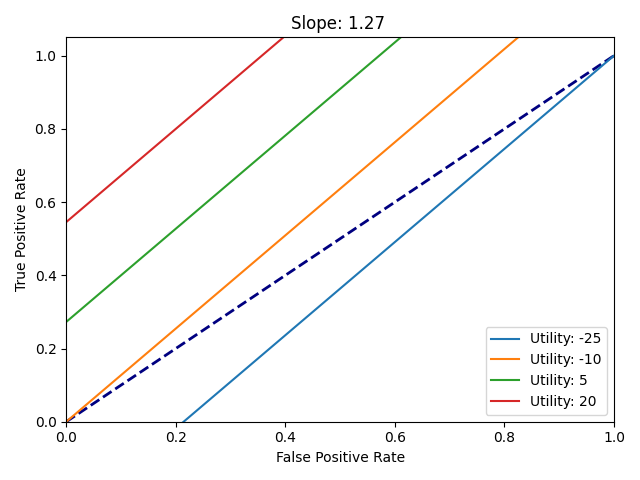
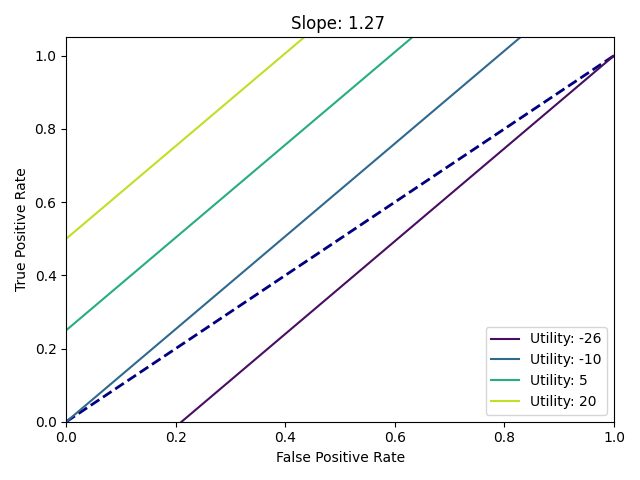
IDK

diff --git a/generate_plots.py b/generate_plots.py
@@ -22,50 +22,6 @@ def make_blank_plot():
     plotter.fig.savefig('./blank.png')
 
 
-def make_plot_1():
-    utility_matrix = UtilityMatrix(110, -162, -10, -10, 0.5)
-    plotter = ROCPlotter()
-    plotter.plot_iso_utility(utility_matrix, utility_matrix.utility_at_accept,
-                             color=my_mapper(utility_matrix.utility_at_accept)). \
-        plot_iso_utility(utility_matrix, utility_matrix.utility_at_reject,
-                         color=my_mapper(utility_matrix.utility_at_reject)). \
-        plot_iso_utility(utility_matrix, 5, color=my_mapper(10)). \
-        plot_iso_utility(utility_matrix, 20, color=my_mapper(20))
-    plotter.ax.set_title(f'Slope: {utility_matrix.slope:0.2f} ')
-    plotter.show()
-    # ax.title = f'Slope: {utility_matrix.slope}'
-    plotter.fig.savefig('./iso_utility_1.png')
-    plotter.fig.show()
-
-
-def make_plot_2():
-    utility_matrix = UtilityMatrix(110, -162, -10, -10, 0.6)
-    plotter = ROCPlotter()
-    plotter.plot_iso_utility(utility_matrix, utility_matrix.utility_at_accept,
-                             color=my_mapper(utility_matrix.utility_at_accept)). \
-        plot_iso_utility(utility_matrix, utility_matrix.utility_at_reject,
-                         color=my_mapper(utility_matrix.utility_at_reject)). \
-        plot_iso_utility(utility_matrix, 10, color=my_mapper(10)). \
-        plot_iso_utility(utility_matrix, 20, color=my_mapper(20))
-    plotter.ax.set_title(f'Slope: {utility_matrix.slope:0.2f} ')
-    plotter.show()
-    # ax.title = f'Slope: {utility_matrix.slope}'
-    plotter.fig.savefig('./iso_utility_2.png')
-    plotter.fig.show()
-
-
-def make_single_lines_1():
-    utility_matrix = UtilityMatrix(110, -162, -10, -10, 0.5)
-    plotter = ROCPlotter()
-    plotter. \
-        plot_iso_utility(utility_matrix, utility_matrix.utility_at_reject,
-                         color=my_mapper(utility_matrix.utility_at_reject))
-    plotter.ax.set_title(f'Slope: {utility_matrix.slope:0.2f} ')
-    plotter.show()
-    # ax.title = f'Slope: {utility_matrix.slope}'
-    plotter.fig.savefig('./single_1.png')
-    plotter.fig.show()
-
 def make_plots(utility_matrix, utility_values):
     plotter = ROCPlotter()
     for value in utility_values:
@@ -75,8 +31,59 @@ def make_plots(utility_matrix, utility_values):
     return plotter
 
 
+def make_and_save_plot_0():
+    utility_matrix = UtilityMatrix(110, -162, -10, -10, 0.5)
+    plotter = make_plots(utility_matrix,
+                         [utility_matrix.utility_at_accept,
+                          utility_matrix.utility_at_reject,
+                          0, 5, 10, 15, 20, 25])
+    plotter.fig.savefig('./iso_utility_0.png')
+    plotter.fig.show()
+
+
+def make_and_save_plot_1():
+    utility_matrix = UtilityMatrix(110, -162, -10, -10, 0.5)
+    plotter = make_plots(utility_matrix,
+                         [utility_matrix.utility_at_accept,
+                          utility_matrix.utility_at_reject,
+                          5, 20])
+    plotter.fig.savefig('./iso_utility_1.png')
+    plotter.fig.show()
+
+
+def make_and_save_plot_2():
+    utility_matrix = UtilityMatrix(110, -162, -10, -10, 0.6)
+    plotter = make_plots(utility_matrix,
+                         [utility_matrix.utility_at_accept,
+                          utility_matrix.utility_at_reject,
+                          10, 20])
+    plotter.fig.savefig('./iso_utility_2.png')
+    plotter.fig.show()
+
+
+def make_and_save_plot_3():
+    utility_matrix = UtilityMatrix(110, -162, -10, -10, 0.5)
+    plotter = make_plots(utility_matrix,
+                         [utility_matrix.utility_at_accept,
+                          utility_matrix.utility_at_reject,
+                          1, 10, 20])
+    plotter.fig.savefig('./iso_utility_3.png')
+    plotter.fig.show()
+
+make_and_save_plot_3()
+
+
 if __name__ == '__main__':
     make_blank_plot()
-    make_plot_1()
-    make_plot_2()
-    make_single_lines_1()
+    make_and_save_plot_0()
+    make_and_save_plot_1()
+    make_and_save_plot_2()
+    make_and_save_plot_3()
+    utility_matrix = UtilityMatrix(110, -162, -10, -10, 0.5)
+    p = make_plots(utility_matrix, [utility_matrix.utility_at_reject])
+    p.fig.savefig('./basic_1.png')
+    p.fig.show()
+    p = make_plots(utility_matrix, [utility_matrix.utility_at_reject,
+                                    utility_matrix.utility_at_accept])
+    p.fig.savefig('./basic_2.png')
+    p.fig.show()

diff --git a/utils/roc_plotter.py b/utils/roc_plotter.py
@@ -4,6 +4,10 @@ import matplotlib.pylab as plt
 from sklearn.metrics import roc_curve
 import numpy as np
 
+from utils.roc import ROC
+
+roc = ROC()
+
 
 @dataclass
 class UtilityMatrix:
